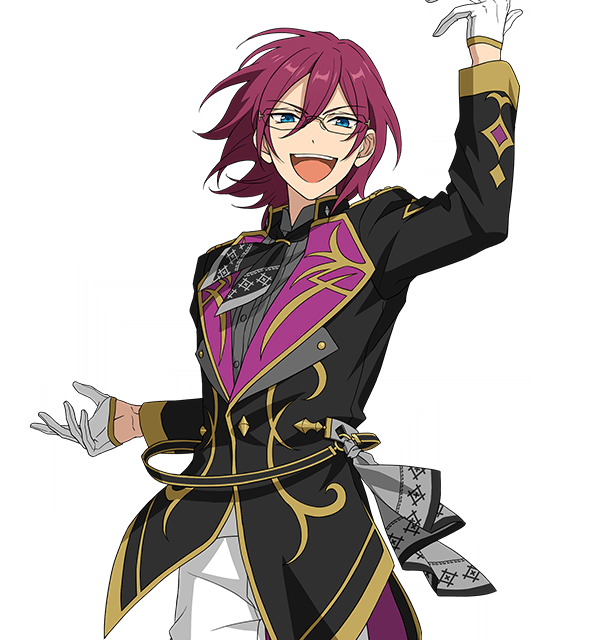
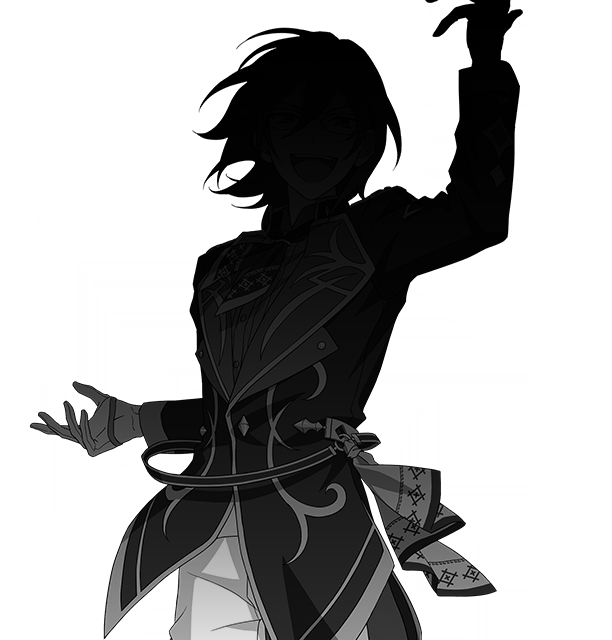
노이즈 전환

Changed region(s): [[0.031, 0.0, 0.8693, 1.0]]

diff --git a/src/Home/Profile/ProfileDetail.js b/src/Home/Profile/ProfileDetail.js
@@ -20,7 +20,6 @@ const TEAM_LOGOS = {
 };
 
 const TEAM_DATA = {
-    /* ── 네 데이터 그대로 ── */
     fine: [
         { name: '텐쇼인 에이치', imageDefault: `${process.env.PUBLIC_URL}/standing/10101_텐쇼인 에이치(1).png`, imageHover: `${process.env.PUBLIC_URL}/standing/10101_텐쇼인 에이치(2).png` },
         { name: '히비키 와타루', imageDefault: `${process.env.PUBLIC_URL}/standing/10102_히비키 와타루(1).png`, imageHover: `${process.env.PUBLIC_URL}/standing/10102_히비키 와타루(2).png` },
@@ -47,9 +46,9 @@ const TEAM_DATA = {
         { name: '카제하야 타츠미', imageDefault: `${process.env.PUBLIC_URL}/standing/10404_카제하야 타츠미(1).png`, imageHover: `${process.env.PUBLIC_URL}/standing/10404_카제하야 타츠미(2).png` },
     ],
     Eden: [
-        { name: '란 나기사', imageDefault: `${process.env.PUBLIC_URL}/standing/20101_란 나기사(1).png`, imageHover: `${process.env.PUBLIC_URL}/standing/20101_란 나기사(2).png` },
+        { name: '란 나기사', imageDefault: `${process.env.PUBLIC_URL}/standing/20101_란 나기사(1).png`, imageHover: `${process.env.PUBLIC_URL}/standing/20101_란 나기사(1).png` },
         { name: '토모에 히요리', imageDefault: `${process.env.PUBLIC_URL}/standing/20102_토모에 히요리(1).png`, imageHover: `${process.env.PUBLIC_URL}/standing/20102_토모에 히요리(2).png` },
-        { name: '사에구사 이바라', imageDefault: `${process.env.PUBLIC_URL}/standing/20103_사에구사 이바라(1).png`, imageHover: `${process.env.PUBLIC_URL}/standing/20103_사에구사 이바라(2).png` },
+        { name: '사에구사 이바라', imageDefault: `${process.env.PUBLIC_URL}/standing/20103_사에구사 이바라(1).png`, imageHover: `${process.env.PUBLIC_URL}/standing/20103_사에구사 이바라(1).png` },
         { name: '사자나미 쥰', imageDefault: `${process.env.PUBLIC_URL}/standing/20104_사자나미 쥰(1).png`, imageHover: `${process.env.PUBLIC_URL}/standing/20104_사자나미 쥰(2).png` },
     ],
     Valkyrie: [
@@ -62,8 +61,8 @@ const TEAM_DATA = {
     ],
     CrazyB: [
         { name: '아마기 린네', imageDefault: `${process.env.PUBLIC_URL}/standing/20401_아마기 린네(1).png`, imageHover: `${process.env.PUBLIC_URL}/standing/20401_아마기 린네(2).png` },
-        { name: 'HiMERU', imageDefault: `${process.env.PUBLIC_URL}/standing/20402_HiMERU(1).png`, imageHover: `${process.env.PUBLIC_URL}/standing/20402_HiMERU(2).png` },
-        { name: '오우카와 코하쿠', imageDefault: `${process.env.PUBLIC_URL}/standing/20403_오우카와 코하쿠(1).png`, imageHover: `${process.env.PUBLIC_URL}/standing/20403_오우카와 코하쿠(2).png` },
+        { name: 'HiMERU', imageDefault: `${process.env.PUBLIC_URL}/standing/20402_HiMERU(1).png`, imageHover: `${process.env.PUBLIC_URL}/standing/20402_HiMERU(1).png` },
+        { name: '오우카와 코하쿠', imageDefault: `${process.env.PUBLIC_URL}/standing/20403_오우카와 코하쿠(1).png`, imageHover: `${process.env.PUBLIC_URL}/standing/20403_오우카와 코하쿠(1).png` },
         { name: '시이나 니키', imageDefault: `${process.env.PUBLIC_URL}/standing/20404_시이나 니키(1).png`, imageHover: `${process.env.PUBLIC_URL}/standing/20404_시이나 니키(2).png` },
     ],
     UNDEAD: [
@@ -87,8 +86,8 @@ const TEAM_DATA = {
         { name: '스오우 츠카사', imageDefault: `${process.env.PUBLIC_URL}/standing/40101_스오우 츠카사(1).png`, imageHover: `${process.env.PUBLIC_URL}/standing/40101_스오우 츠카사(2).png` },
         { name: '츠키나가 레오', imageDefault: `${process.env.PUBLIC_URL}/standing/40102_츠키나가 레오(1).png`, imageHover: `${process.env.PUBLIC_URL}/standing/40102_츠키나가 레오(2).png` },
         { name: '세나 이즈미', imageDefault: `${process.env.PUBLIC_URL}/standing/40103_세나 이즈미(1).png`, imageHover: `${process.env.PUBLIC_URL}/standing/40103_세나 이즈미(2).png` },
-        { name: '사쿠마 리츠', imageDefault: `${process.env.PUBLIC_URL}/standing/40104_사쿠마 리츠(1).png`, imageHover: `${process.env.PUBLIC_URL}/standing/40104_사쿠마 리츠(2).png` },
-        { name: '나루카미 아라시', imageDefault: `${process.env.PUBLIC_URL}/standing/40105_나루카미 아라시(1).png`, imageHover: `${process.env.PUBLIC_URL}/standing/40105_나루카미 아라시(2).png` },
+        { name: '사쿠마 리츠', imageDefault: `${process.env.PUBLIC_URL}/standing/40104_사쿠마 리츠(1).png`, imageHover: `${process.env.PUBLIC_URL}/standing/40104_사쿠마 리츠(1).png` },
+        { name: '나루카미 아라시', imageDefault: `${process.env.PUBLIC_URL}/standing/40105_나루카미 아라시(1).png`, imageHover: `${process.env.PUBLIC_URL}/standing/40105_나루카미 아라시(1).png` },
     ],
     Switch: [
         { name: '사카사키 나츠메', imageDefault: `${process.env.PUBLIC_URL}/standing/40201_사카사키 나츠메(1).png`, imageHover: `${process.env.PUBLIC_URL}/standing/40201_사카사키 나츠메(2).png` },
@@ -106,10 +105,10 @@ const ProfileDetail = () => {
     const team = TEAM_DATA[name] || [];
 
     // ✅ 회색/노이즈 처리 대상
-    const MUTED_SET = new Set(['히비키 와타루']);
+    const MUTED_SET = new Set(['사에구사 이바라', 'HiMERU', '란 나기사', '나루카미 아라시', '오우카와 코하쿠', '사쿠마 리츠']);
 
     // ✅ 글리치 처리 대상 (원하면 여기서 멤버 추가/삭제)
-    const GLITCH_SET = new Set(['히비키 와타루']);
+    const GLITCH_SET = new Set(['사에구사 이바라', 'HiMERU', '란 나기사', '나루카미 아라시', '오우카와 코하쿠', '사쿠마 리츠']);
 
     const goBackOrMain = () => {
         if (window.history.length > 1) navigate(-1);
